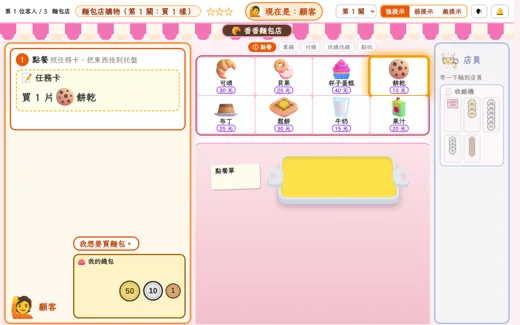
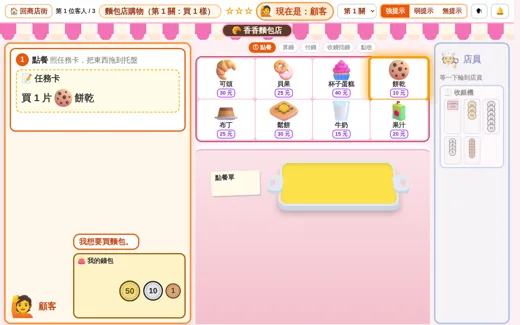
遊戲頁回商店街＋長方形零錢盤已實作：更新規劃文件、重產遊戲縮圖
Claude-Session: https://claude.ai/code/session_011NSASaVYh2cVMrkNwtkiH8

diff --git a/docs/早餐店購物遊戲_規劃.md b/docs/早餐店購物遊戲_規劃.md
@@ -39,7 +39,7 @@
 | 使用者回饋第十輪（2026-11-10） | 「用直式算一算」不再自動打開，改由學生自己點（按鈕一亮一暗提醒）；~~第 4 關第二部分的按鈕在視窗裡~~（同日更正：第二部分自動接著開） |
 | 2026-11-10 調整 | 「用直式算一算」改由學生點（語音念完才出按鈕，弱／無提示不等）；第 4 關第二部分自動接著開；會算的學生可以不用直式、直接填答案；找錢的手放下錢就離開，不往前推 |
 | 入口（2026-11-10） | 新增互動遊戲導覽頁 `games/`（模擬圖 C 商店街），從首頁與互動學習單總覽的「互動遊戲」標籤進入，在右側欄選關卡與提示強弱 |
-| 回導覽頁＋長方形零錢盤（2026-11-11） | 各遊戲頁加「回商店街」（**使用者選甲＋丙**：左上文字鈕，遊戲中先確認、完成畫面直接回）；零錢盤改長方形皮革托盤、四邊窄（甲2／戊2）、斜看立體、配色跟各店裝潢（早餐店酒紅、麵包店巧克力＋粉紅縫線）。模擬圖 [`mock-game-back-dish/`](mock-game-back-dish/) |
+| 回導覽頁＋長方形零錢盤（2026-11-11 完成） | 各遊戲頁加「回商店街」（**使用者選甲＋丙**：左上文字鈕，遊戲中先確認、完成畫面直接回）；零錢盤改長方形皮革托盤、四邊窄（甲2／戊2）、斜看立體、配色跟各店裝潢（早餐店酒紅、麵包店巧克力＋粉紅縫線）。模擬圖 [`mock-game-back-dish/`](mock-game-back-dish/) |
 | 付太多 | 付的錢比總價多也算對，照樣找錢；強提示多問「有沒有剛好的付法？」 |
 | 菜單（2026-11-08 定案） | 蛋餅 25（份）、漢堡 35（個）、三明治 30（個）、鐵板麵 45（份）、飯糰 30（個）、吐司 20（片）、熱狗 15（根）、奶茶 20、豆漿 15、紅茶 10（杯）、茶葉蛋 8（顆）、荷包蛋 10（個）。開放圖示沒有蘿蔔糕、薯餅，改成飯糰、熱狗，並加吐司、荷包蛋。茶葉蛋 8 元低於圖庫 d2 下限 10，刻意保留（要用到 1、5 元硬幣），管理端改價會被驗證擋 |
 

diff --git a/docs/mock-game-back-dish/README.md b/docs/mock-game-back-dish/README.md
@@ -12,3 +12,5 @@
 `MOCKOUT=<輸出> MOCKTAG=bf node mock.js <S> <S>/shots`（麵包店 `MOCKTAG=bk … 1280 800 bk_s1_`）。
 
 **使用者選定（2026-11-11）**：按鈕用**甲＋丙**（左上文字鈕、遊戲中先確認；丁的完成畫面按鈕一起做）。零錢盤四邊縮窄約一半（內凹平台離外緣 26×32px → 13×16px）：`甲2_盤邊變窄_早餐店.png`、`戊2_盤邊變窄_麵包店.png`；`mock.js` 已是縮窄後的版本。
+
+**已實作（2026-11-11）**：後端 `backend/templates/game_shop.html`，細節見後端 `docs/guide/game-shop.md`「回商店街＋長方形零錢盤」。
